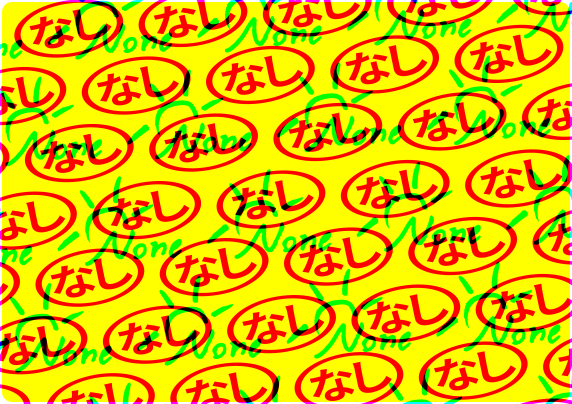
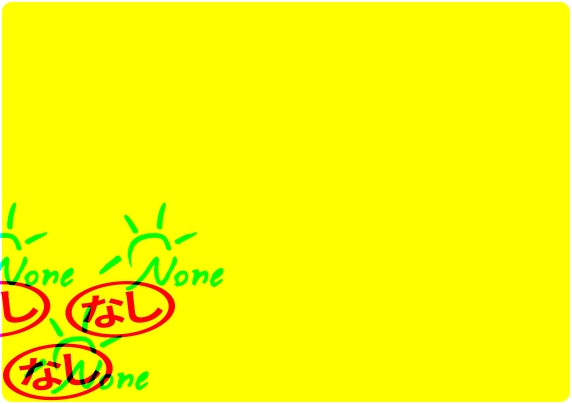
(sunburnt) animated none screen

diff --git a/Plugins/SunBurnt/Source/PluginEditor.cpp b/Plugins/SunBurnt/Source/PluginEditor.cpp
@@ -154,24 +154,40 @@ R"(#version 150 core
 in vec2 aPos;
 uniform vec4 pos;
 uniform float banner;
+uniform float isjp;
+uniform float time;
 out vec2 uv;
+out vec2 logouv;
 void main(){
 	gl_Position = vec4(vec2(aPos.x*pos.z+pos.x,(aPos.y*pos.w+pos.y)*(1-banner))*2-1,0,1);
 	uv = aPos;
+	float angle = -.0471238898;
+	if(isjp > .5)
+		angle = -.0844739358;
+	logouv = vec2((aPos.x-.5)*1.4158415842,aPos.y-.5);
+	logouv = vec2(
+		(logouv.x*cos(angle)-logouv.y*sin(angle))/1.4158415842,
+		logouv.x*sin(angle)+logouv.y*cos(angle))+.5;
+	logouv.x -= time;
+	if(isjp < .5)
+		logouv -= vec2(.18,.09);
 })",
 //NONE FRAG
 R"(#version 150 core
 in vec2 uv;
+in vec2 logouv;
 uniform sampler2D tex;
 uniform float isjp;
 uniform float dpi;
 out vec4 fragColor;
 void main(){
-	vec3 col = (texture(tex,uv).rgb-.5)*max(1,dpi*.6)+.5;
+	float border = (texture(tex,uv).b-.5)*max(1,dpi*.6)+.5;
+	float logo = 0;
 	if(isjp > .5)
-		fragColor = vec4(col.b,0,col.g,1);
+		logo = texture(tex,mod(logouv,vec2(.2185314685,.3094059406))).g;
 	else
-		fragColor = vec4(col.b,0,col.r,1);
+		logo = texture(tex,mod(logouv,vec2(.2622377622,.5099009901))).r;
+	fragColor = vec4(border,0,(logo-.5)*max(1,dpi*.6)+.5,1);
 })");
 
 	compileshader(selectshader,
@@ -648,6 +664,7 @@ void SunBurntAudioProcessorEditor::renderOpenGL() {
 		noneshader->setUniform("banner",banneroffset);
 		noneshader->setUniform("isjp",jpmode?1.f:0.f);
 		noneshader->setUniform("pos",11/368.f,73/334.f,286/368.f,202/334.f);
+		noneshader->setUniform("time",nonetime);
 		glDrawArrays(GL_TRIANGLE_STRIP,0,4);
 		context.extensions.glDisableVertexAttribArray(coord);
 	}
@@ -1147,6 +1164,11 @@ void SunBurntAudioProcessorEditor::timerCallback() {
 		calcvis();
 		randcubes(audioProcessor.state.seed);
 		audioProcessor.updatevis = false;
+	}
+
+	if(++nonerate >= 3) {
+		nonetime = fmod(nonetime+.0005f,10000.f);
+		nonerate = 0;
 	}
 
 #ifdef BANNER

diff --git a/Plugins/SunBurnt/Source/PluginEditor.h b/Plugins/SunBurnt/Source/PluginEditor.h
@@ -160,6 +160,8 @@ private:
 	std::unique_ptr<OpenGLShaderProgram> baseshader;
 
 	OpenGLTexture nonetex;
+	float nonetime = 0;
+	int nonerate = 0;
 	std::unique_ptr<OpenGLShaderProgram> noneshader;
 
 	OpenGLTexture selecttex;
